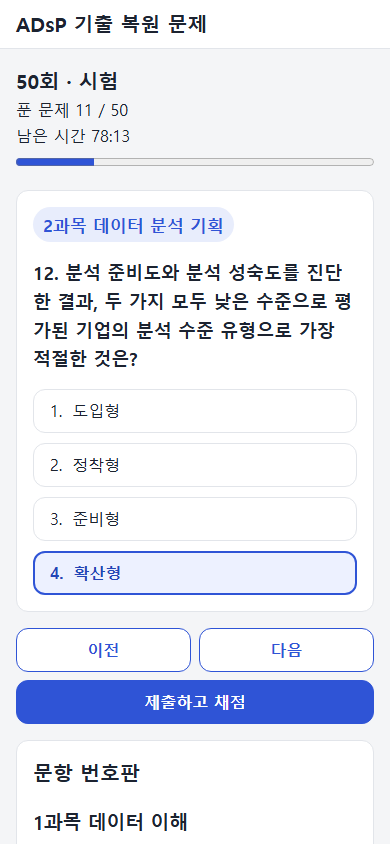
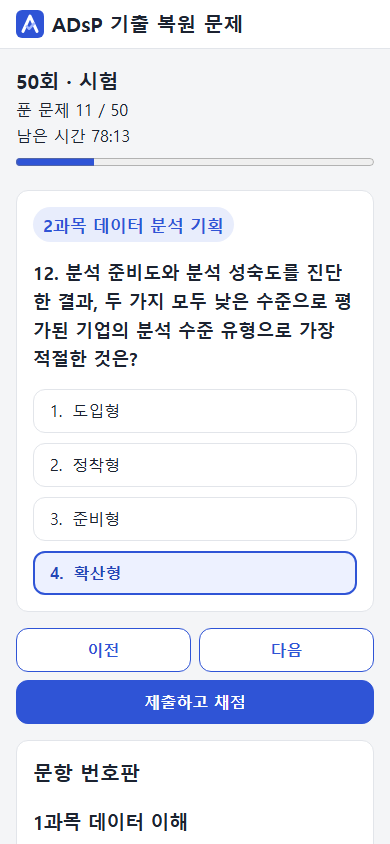
로고와 파비콘 추가, 새 회차가 바로 보이게 수정
- 화면 맨 위의 로고와 브라우저 탭의 파비콘 추가
- 회차 목록과 문제 파일을 받을 때 새 버전 확인
- README 화면 이미지 갱신

Changed region(s): [[0.0308, 0.0, 0.6154, 0.0616]]

diff --git a/src/styles/main.css b/src/styles/main.css
@@ -16,6 +16,7 @@
   --font-small: 14px;
   --font-subject: 17px;
   --font-heading: 20px;
+  --logo-size: 28px;
   --line-height: 1.6;
   --space-small: 8px;
   --space-medium: 16px;
@@ -35,7 +36,8 @@ body, h1, h2, p { margin: 0; }
 .container { width: 100%; max-width: var(--content-width); margin-inline: auto; padding-inline: var(--space-medium); }
 header { background: var(--surface); border-bottom: 1px solid var(--border); }
 h1, h2 { font-size: var(--font-heading); }
-h1 a { display: flex; align-items: center; min-height: var(--touch-height); padding-block: var(--space-small); color: var(--text); text-decoration: none; }
+h1 a { display: flex; align-items: center; gap: var(--space-small); min-height: var(--touch-height); padding-block: var(--space-small); color: var(--text); text-decoration: none; }
+.service-logo { width: var(--logo-size); height: var(--logo-size); flex-shrink: 0; }
 main { flex: 1; padding-block: var(--space-medium); }
 .notice { padding: var(--space-medium); border: 1px solid var(--notice-border); border-radius: var(--radius); background: var(--notice-bg); color: var(--notice-text); font-size: var(--font-small); }
 .notice h2 { font-size: var(--font-small); margin-bottom: var(--space-small); }

diff --git a/src/data/loadRound.test.ts b/src/data/loadRound.test.ts
@@ -2,12 +2,12 @@ import { afterEach, expect, test, vi } from 'vitest';
 import { dataUrl, loadRound } from './loadRound';
 const summary = { round: 50, title: '표본', questionCount: 1, timeLimitMinutes: 90, file: '50.json' };
 afterEach(() => vi.unstubAllGlobals());
-test('loads the file from the base data address', async () => {
+test.each([undefined, new AbortController().signal])('revalidates the base data address with signal %s', async signal => {
   const data = { formatVersion: 1, round: 50, subjects: [], questions: [{}] };
   const mock = vi.fn().mockResolvedValue({ ok: true, json: async () => data });
   vi.stubGlobal('fetch', mock);
-  expect(await loadRound(summary)).toEqual(data);
-  expect(mock).toHaveBeenCalledWith(dataUrl('50.json'), { signal: undefined });
+  expect(await loadRound(summary, signal)).toEqual(data);
+  expect(mock).toHaveBeenCalledWith(dataUrl('50.json'), { signal, cache: 'no-cache' });
 });
 test.each([null, {}, { formatVersion: 2, questions: [] }, { formatVersion: 1, questions: {} }])('rejects malformed data %j', async data => {
   vi.stubGlobal('fetch', vi.fn().mockResolvedValue({ ok: true, json: async () => data }));

diff --git a/src/data/loadRounds.test.ts b/src/data/loadRounds.test.ts
@@ -2,11 +2,11 @@ import { afterEach, expect, test, vi } from 'vitest';
 import { loadRounds } from './loadRounds';
 
 afterEach(() => vi.unstubAllGlobals());
-test('uses the configured base URL', async () => {
+test.each([undefined, new AbortController().signal])('revalidates the configured base URL with signal %s', async signal => {
   const fetchMock = vi.fn().mockResolvedValue({ ok: true, json: async () => [] });
   vi.stubGlobal('fetch', fetchMock);
-  expect(await loadRounds()).toEqual([]);
-  expect(fetchMock).toHaveBeenCalledWith(`${import.meta.env.BASE_URL}data/rounds.json`, { signal: undefined });
+  expect(await loadRounds(signal)).toEqual([]);
+  expect(fetchMock).toHaveBeenCalledWith(`${import.meta.env.BASE_URL}data/rounds.json`, { signal, cache: 'no-cache' });
 });
 test('rejects HTTP errors without reading JSON', async () => {
   const json = vi.fn();

diff --git a/src/components/AppShell.tsx b/src/components/AppShell.tsx
@@ -18,7 +18,7 @@ export function AppShell({ children }: { children: (props: PageProps) => ReactNo
     return () => controller.abort();
   }, [attempt]);
   return <>
-    <header><div className={`container${practice || exam ? ' practice-header' : ''}`}><h1><Link to="/">ADsP 기출 복원 문제</Link></h1></div></header>
+    <header><div className={`container${practice || exam ? ' practice-header' : ''}`}><h1><Link to="/"><img className="service-logo" src={`${import.meta.env.BASE_URL}favicon.svg`} alt="" width="28" height="28" />ADsP 기출 복원 문제</Link></h1></div></header>
     <main className={`container${practice || exam ? ' practice-container' : ''}`}>{children({state, retry})}</main>
     <footer>복원 문제입니다. 실제 시험과 다를 수 있습니다.</footer>
   </>;

diff --git a/src/App.test.tsx b/src/App.test.tsx
@@ -17,6 +17,11 @@ afterEach(() => { cleanup(); vi.unstubAllGlobals(); });
 test('renders exact notices, metadata, and both hash links', async () => {
   render(<App />);
   expect(screen.getByRole('heading', { level: 1, name: 'ADsP 기출 복원 문제' })).toBeTruthy();
+  const logo = screen.getByRole('link', { name: 'ADsP 기출 복원 문제' }).querySelector('img');
+  expect(logo?.getAttribute('alt')).toBe('');
+  expect(logo?.getAttribute('src')).toBe(`${import.meta.env.BASE_URL}favicon.svg`);
+  expect(logo?.getAttribute('width')).toBe('28');
+  expect(logo?.getAttribute('height')).toBe('28');
   expect(screen.getByRole('contentinfo').textContent).toBe(
     '복원 문제입니다. 실제 시험과 다를 수 있습니다.',
   );

diff --git a/src/data/loadRounds.ts b/src/data/loadRounds.ts
@@ -9,7 +9,7 @@ function isRound(value: unknown): value is RoundSummary {
     && typeof item.file === 'string' && item.file.trim() !== '';
 }
 export async function loadRounds(signal?: AbortSignal): Promise<RoundSummary[]> {
-  const response = await fetch(`${import.meta.env.BASE_URL}data/rounds.json`, { signal });
+  const response = await fetch(`${import.meta.env.BASE_URL}data/rounds.json`, { signal, cache: 'no-cache' });
   if (!response.ok) throw new Error('회차 목록 HTTP 오류');
   const data: unknown = await response.json();
   if (!Array.isArray(data) || !data.every(isRound)) throw new Error('회차 목록 형식 오류');

diff --git a/src/data/loadRound.ts b/src/data/loadRound.ts
@@ -1,7 +1,7 @@
 import type { RoundData, RoundSummary } from './types';
 export const dataUrl = (file: string) => `${import.meta.env.BASE_URL}data/${file}`;
 export async function loadRound(summary: RoundSummary, signal?: AbortSignal): Promise<RoundData> {
-  const response = await fetch(dataUrl(summary.file), { signal });
+  const response = await fetch(dataUrl(summary.file), { signal, cache: 'no-cache' });
   if (!response.ok) throw new Error('회차 HTTP 오류');
   const data = await response.json() as RoundData;
   if (!data || data.formatVersion !== 1 || !Array.isArray(data.questions) || !data.questions.length

diff --git a/index.html b/index.html
@@ -4,6 +4,9 @@
     <meta charset="UTF-8" />
     <meta name="viewport" content="width=device-width, initial-scale=1.0" />
     <title>ADsP 기출 복원 문제</title>
+    <link rel="icon" type="image/svg+xml" href="./favicon.svg" />
+    <link rel="icon" type="image/png" sizes="32x32" href="./favicon-32.png" />
+    <link rel="apple-touch-icon" href="./apple-touch-icon.png" />
   </head>
   <body>
     <div id="root"></div>
